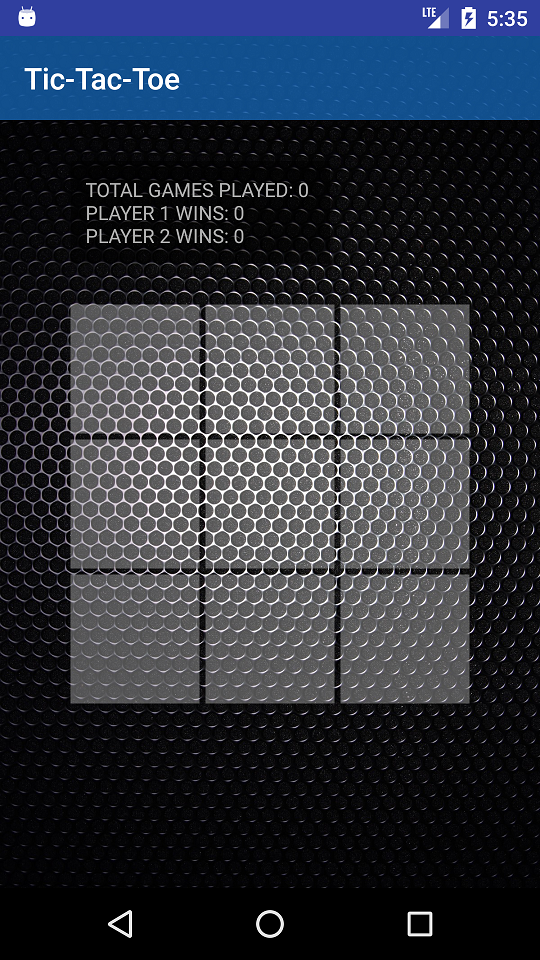
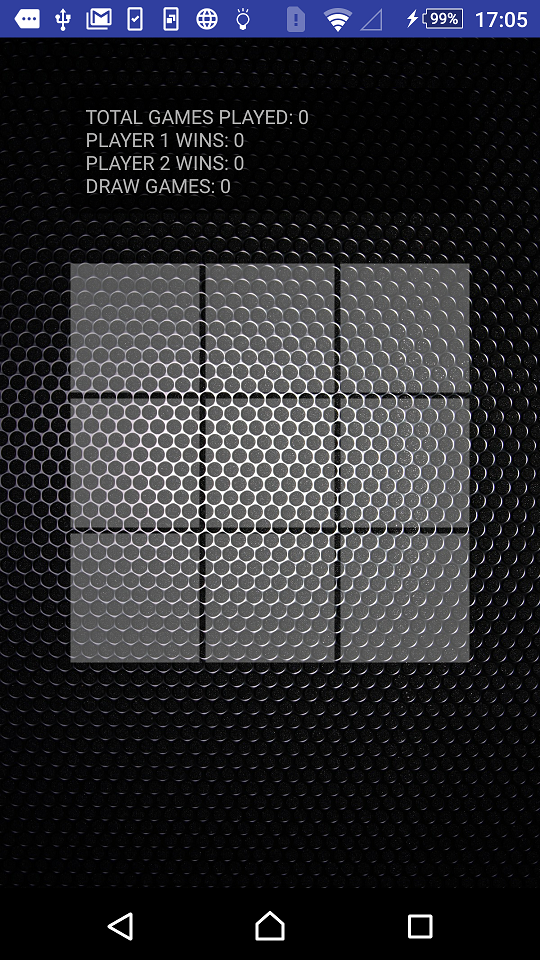
no toolbar and draw games

diff --git a/app/src/main/java/com/siziksu/kotlinTicTacToe/presenter/main/MainPresenter.kt b/app/src/main/java/com/siziksu/kotlinTicTacToe/presenter/main/MainPresenter.kt
@@ -125,6 +125,7 @@ class MainPresenter {
         val total = stats[DRAW] + stats[FIRST] + stats[SECOND]
         return "TOTAL GAMES PLAYED: $total\n" +
                 "PLAYER 1 WINS: " + stats[FIRST] + "\n" +
-                "PLAYER 2 WINS: " + stats[SECOND]
+                "PLAYER 2 WINS: " + stats[SECOND] + "\n" +
+                "DRAW GAMES: " + stats[DRAW]
     }
 }

diff --git a/app/src/main/java/com/siziksu/kotlinTicTacToe/view/main/MainActivity.kt b/app/src/main/java/com/siziksu/kotlinTicTacToe/view/main/MainActivity.kt
@@ -18,7 +18,6 @@ class MainActivity : AppCompatActivity() {
     override fun onCreate(savedInstanceState: Bundle?) {
         super.onCreate(savedInstanceState)
         setContentView(R.layout.activity_main)
-        setSupportActionBar(mainToolbar)
         mainStatistics.text = presenter.getStatistics()
     }
 
